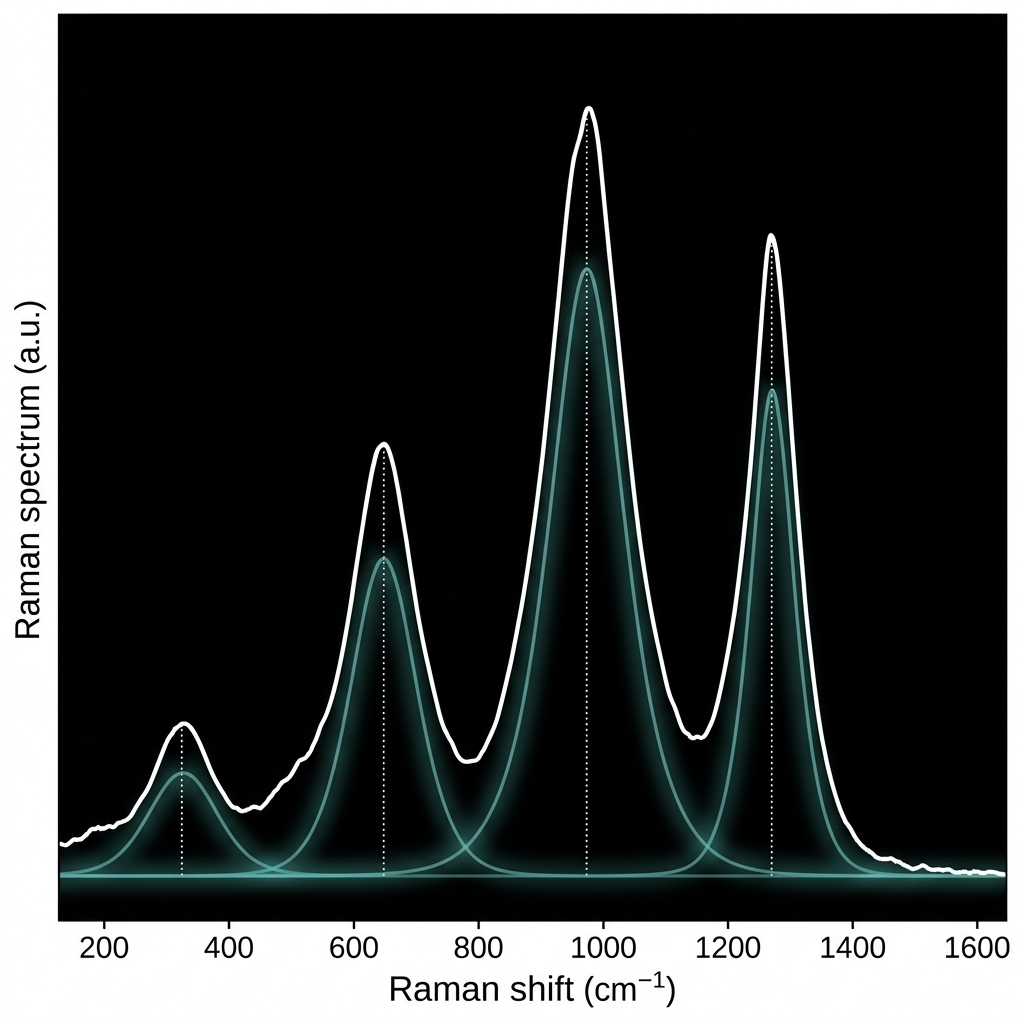
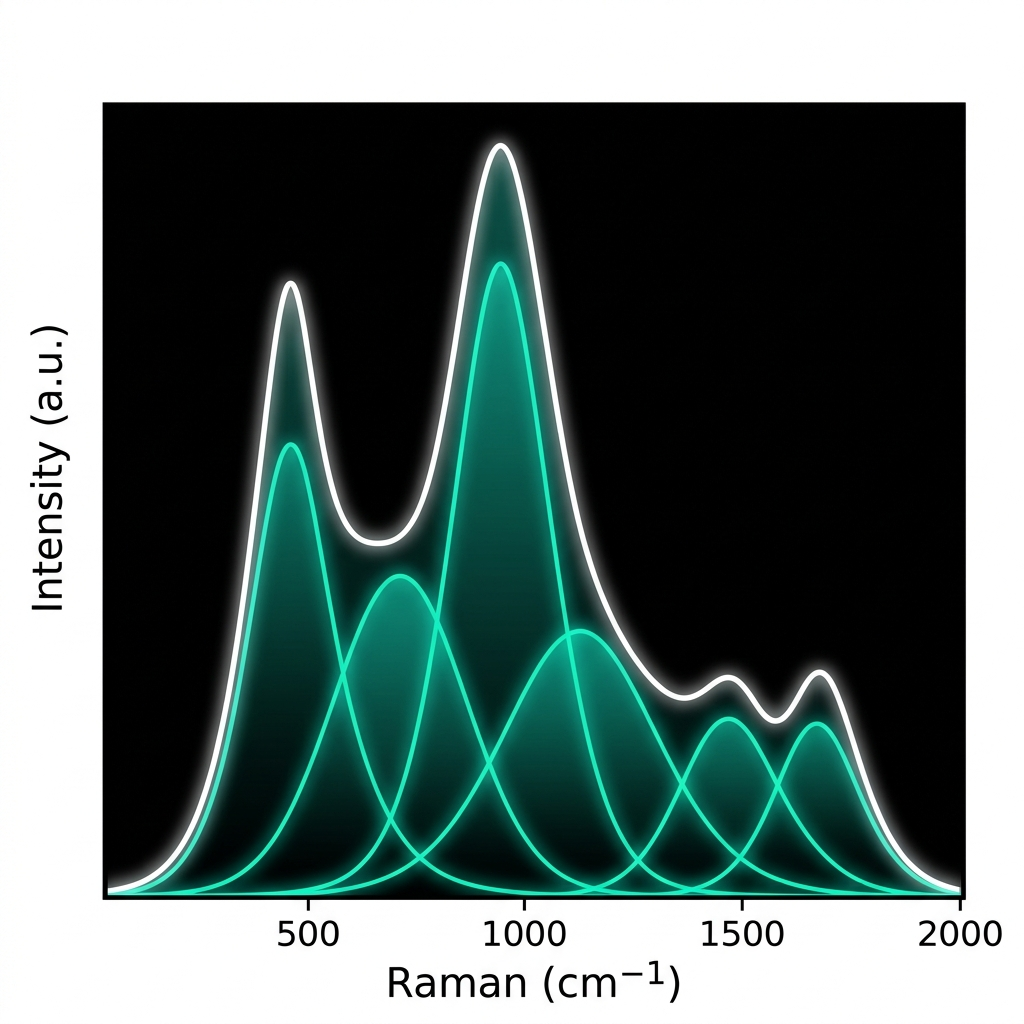
Remove axis and borders from hero visual, and make graphic seamless

diff --git a/src/styles/landing.css b/src/styles/landing.css
@@ -155,9 +155,6 @@
   width: 100%;
   max-width: 480px;
   height: auto;
-  border-radius: 8px;
-  border: 1px solid #1a1a1a;
-  box-shadow: 0 20px 40px rgba(0, 0, 0, 0.8), 0 0 40px rgba(20, 184, 166, 0.05);
   display: block;
 }
 
